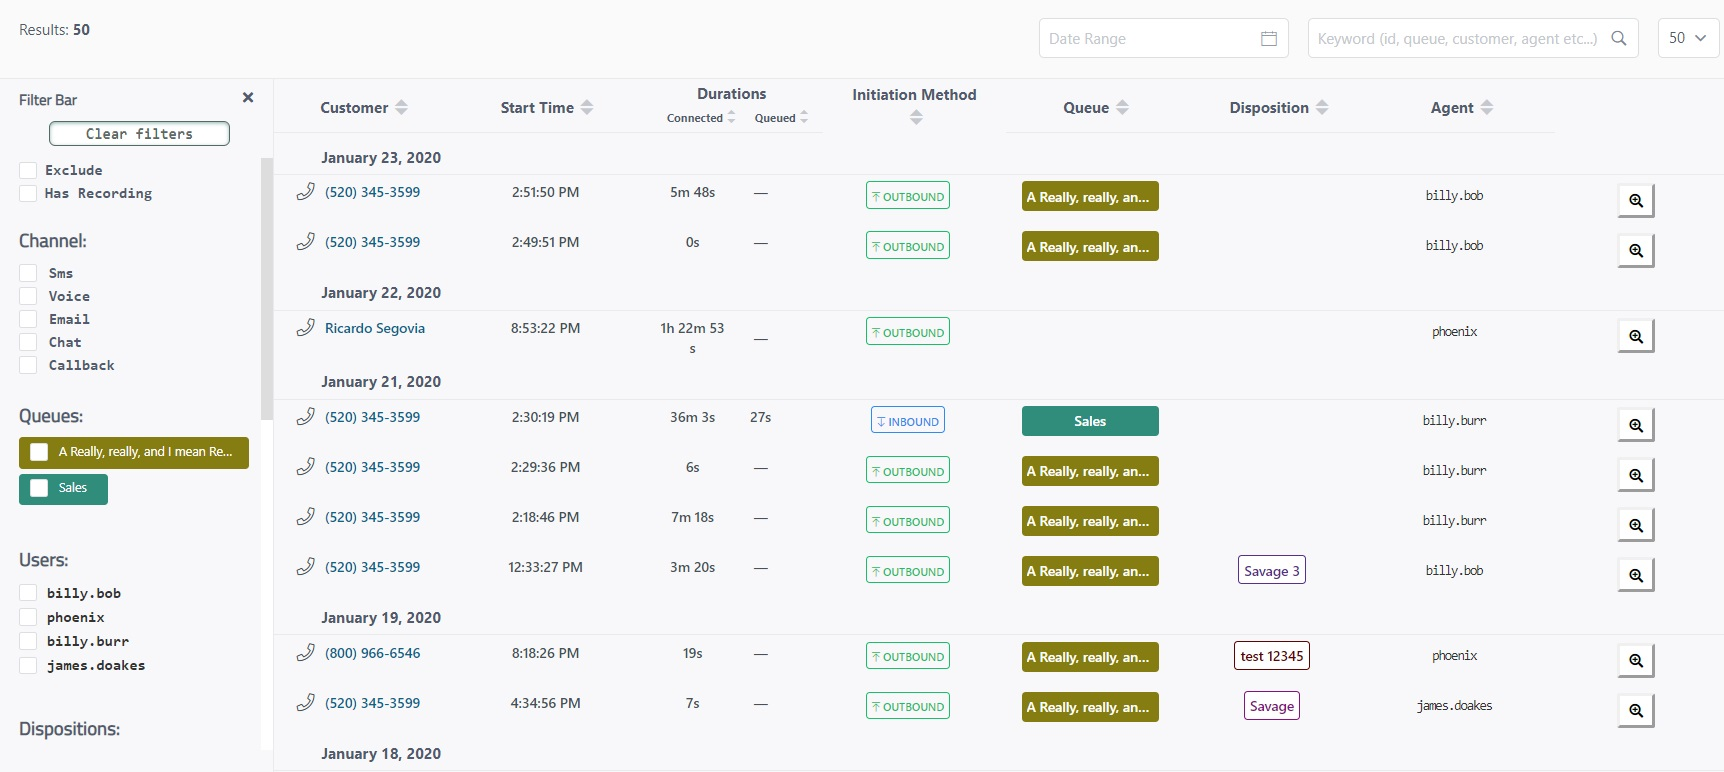
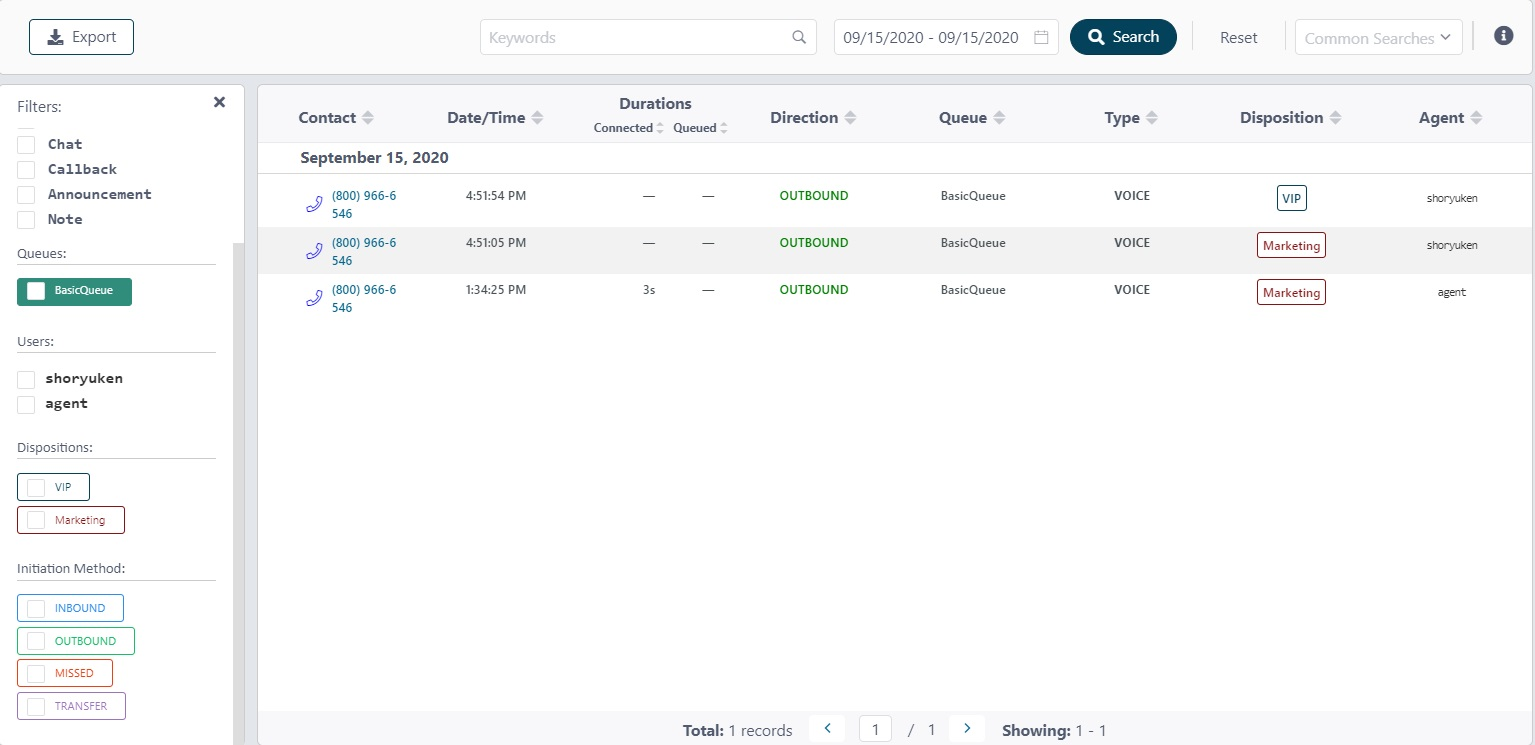
activity update

diff --git a/docs/_pages/activity.md b/docs/_pages/activity.md
@@ -10,9 +10,17 @@ sidebar:
 
 ### The Dasbhboard
 
-The Activity dashboard is the Instance history of phone calls. The rows will display: Caller, Timestamp, Duration of the call, Direction (if Inbound, Outbound, Callback or Missed), Queue, Disposition if enabled, Username, and lastly an option to download or play the recordings.
+The Activity dashboard is the Instance history of phone calls. The rows will display: 
+- Contact 
+- Date/Time
+- Duration (Connected and Queued)
+- Direction (Inbound, Outbound, Callback or Missed)
+- Queue
+- Type (Voice/Announcement)
+- Disposition (if enabled in settings) 
+- Agent
 
-The Activity dashboard also features filters and Activity details.
+The Activity dashboard also features filters and details upon click.
 
 [![Activity Dashboard](/assets/images/activity-dashboard.jpg)](/assets/images/activity-dashboard.jpg)
 
@@ -26,12 +34,6 @@ This is located at the top / header of the Activity dashboard:
 - **Keyword** filter (Component 2) searches for any matchup you input in the field.
 
 [![Date&Keyword Filter](/assets/images/date-keyword-filter.jpg)](/assets/images/date-keyword-filter.jpg)
-
-----
-
-- **Number of calls** filter will determine the number of calls that will first load in the Activity tab. By default this is initially set to 50. If you scroll down to the bottom a "See more" button will display, if clicked it will load more calls. 
-
-{% include figure image_path="/assets/images/load-more.gif" alt="Call numbers filter"%}
 
 ----
 
@@ -80,30 +82,21 @@ Ex. `attribute: spanishQueue, true` will return all contacts with the Contact At
 
 #### Filter bar
 
-Located at the left corner, it is used to filter and sort calls by: 
+Located at the left corner, it's used to filter and sort calls by: 
 
+- Type.
 - Queues. 
 - Users. 
-- Direction. 
-- Disposition (if enabled). 
-- Channel.
-- Duration.
-
-If you click the label in one of the records corresponding to either Direction, Queue, Disposition or Username you can activate the filter functionality.
+- Dispositions. 
+- Initiation method. 
 
 [![Filter bar](/assets/images/filter-bar.jpg)](/assets/images/filter-bar.jpg)
 
 ----
 
-There is also Channel (SMS, Email, Voice, Chat, Callback) and Durations (Queued or Connected) filters.
-
-[![Filter bar duration](/assets/images/activity-durations-filter.jpg)](/assets/images/activity-durations-filter.jpg)
-
-----
-
 ### Activity Details
 
-In the right corner of the dashboard there is a zoom icon that if clicked, enhances the level of details shown per record.
+This is activated upon clicking a record, and enhances the level of details.
 
 [![Activity Details 1](/assets/images/activity-details-1.jpg)](/assets/images/activity-details-1.jpg)
 
